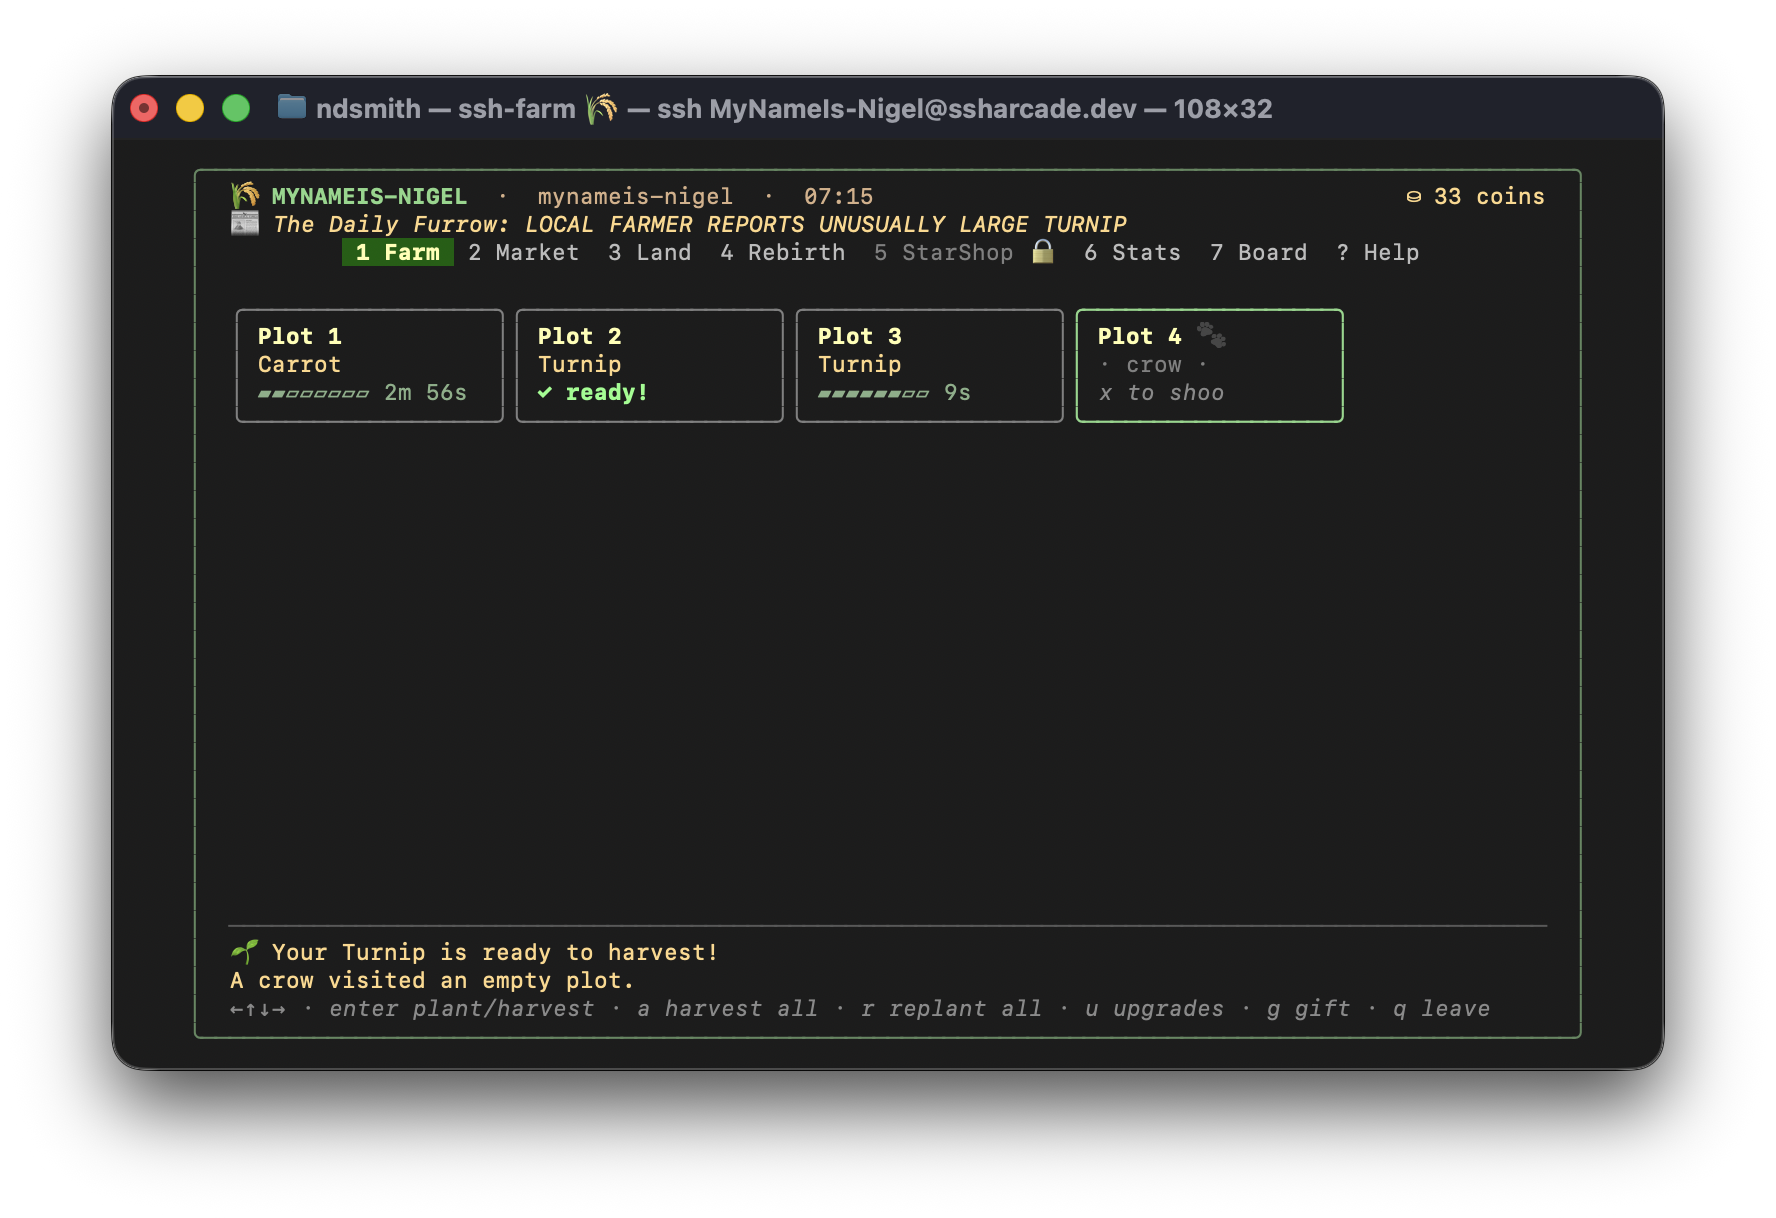
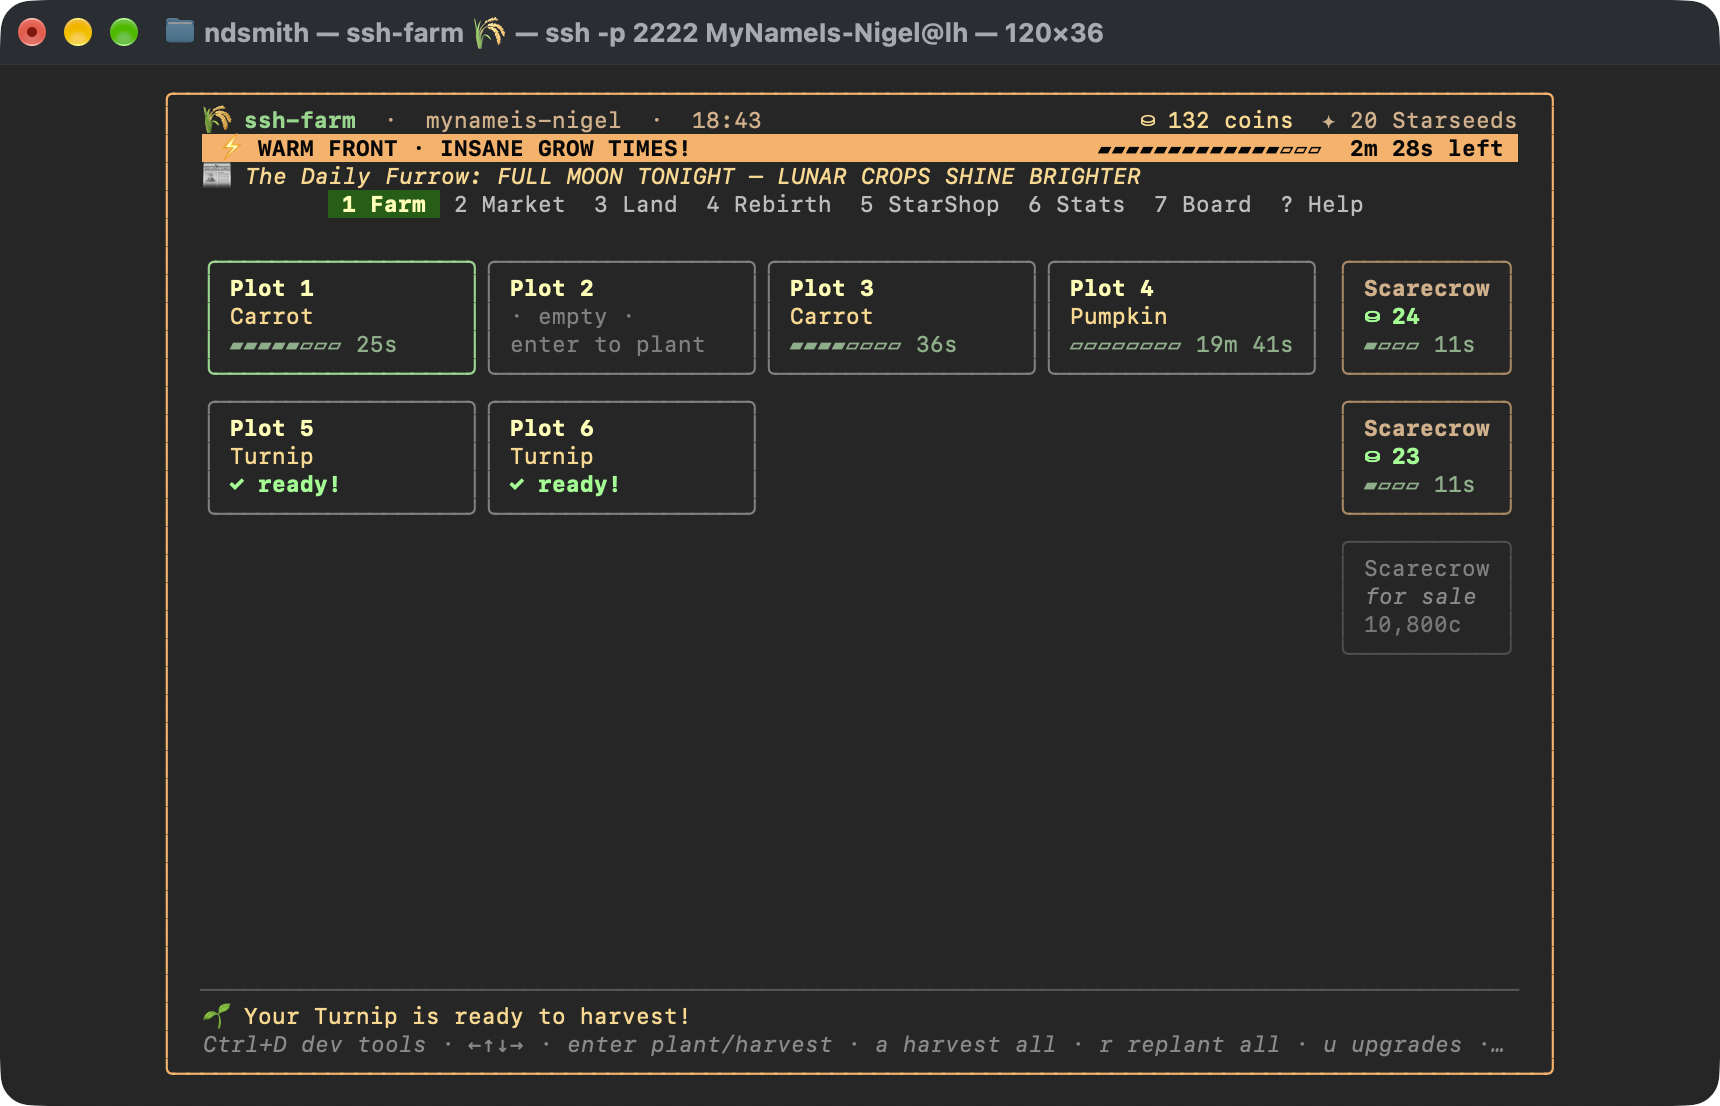
update readme and new photo for ssh-idlefarmer

diff --git a/README.md b/README.md
@@ -1,23 +1,17 @@
 # Nigel Smith
 
-**DevOps & Cloud Infrastructure Engineer** — I build and automate just about anything I can get my hands on.
+**Security & Infrastructure Engineer**
 
 Currently pursuing a B.S. in Cybersecurity at BYU-Idaho (Est. 2027) while working in the field.
 
----
-
-## What I Work On
-
-- **Cloud infrastructure** — AWS (IAM, EC2, RDS, S3, Lambda, VPC, Cognito), GCP, CloudFormation & IaC
-- **Automation** — Python scripts and PowerShell tools
-- **Systems & networking** — Linux servers, Windows Server, Proxmox, Cisco, Cloudflare
-- **Managed IT** — M365 tenant admin, Exchange triage, endpoint management, on-prem network infrastructure
-
----
+> [!TIP]
+> I'm from Monroe, GA; Currently in Rexburg, ID
 
 ## Experience
 
-**Fybercom (Technical Support)** — Configuring Ubiquiti, Cambium, and Tarana radio/fiber equipment; managing customer networks via CRM & troubleshooting through 200+ calls a month
+**Fybercom (Security & Infrastructure Engineer)** — Auditing & security infrastructure, implementing security patches, 
+
+**Fybercom (Technical Support)** — Configured Ubiquiti, Cambium, and Tarana radio/fiber equipment; managed customer networks via CRM & troubleshot through 200+ calls a month
 
 **Roundsphere (DevOps Intern)** — Migrated production apps to IaC with AWS CloudFormation; cut cloud spend by 14% through RDS consolidation; oversaw Google Workspace migrations
 
@@ -33,27 +27,11 @@ Currently pursuing a B.S. in Cybersecurity at BYU-Idaho (Est. 2027) while workin
 | CompTIA A+ | Earned |
 | AWS Cloud Practitioner | Earned |
 | CompTIA Security+ | Earned |
+| TCM PSAA | In-Progress |
+| Cisco CCNA | In-Progress |
+| AWS Solutions Architect | In-Progress |
 
----
-
-## Tech Stack
-
-```
-Cloud:       AWS · GCP · CloudFormation · IaC
-Languages:   Python · PowerShell · Bash
-Infra:       Linux · Windows Server · Proxmox
-Networking:  Cisco · Cloudflare · Wireshark · Nmap
-AI Tooling:  Claude Code · Cursor · n8n · Ollama
-```
-
----
-
-## Currently
-
-- Based in Idaho Falls, ID — opten to relocation after graduation
-- Building toward AWS Solutions Architect
-
----
+## Contact Info
 
 [nigel.nds.smith@gmail.com](mailto:nigel.nds.smith@gmail.com) · [LinkedIn](https://linkedin.com/in/nigeld-smith) · [Portfolio](https://nigel-smith.dev)
 
@@ -63,17 +41,24 @@ AI Tooling:  Claude Code · Cursor · n8n · Ollama
 
 An overview of some of my **personal work** that I can share. These are what I am most proud of. 
 
----
+## SSH-Farm (ssharcade.dev)
 
-## Highlights
+![Screenshot of ssh-farm dev server](assets/ssh-idlefarm.png)
 
-![Screenshot of my TUI game](assets/ssh-idlefarm.png)
+> [!NOTE] 
+> This screenshot may not accurately reflect the current state of the game. This is an active project. 
 
-> SSH Idlefarmer, an agentic engineered terminal user interface (TUI) that you can SSH into right now! Try `ssh ssharcade.dev` (you need a keypair for it to work)
+SSH Idlefarmer, a terminal user interface (TUI) game that you can SSH into right now! Try `ssh ssharcade.dev` (from the menu, hit IDLE FARMER).
 
-![My opengraph of my web portfolio](https://nigel-smith.dev/opengraph.png)
+The arcade runs on a single AWS EC2 t3.micro instance running 4 docker instances for each game. DNS is handled through Cloudflare, the reverse proxy is run on Caddy, each game is written in Go and packed into a Docker image.
 
-> My web portfolio, which will have more information on my projects. Can be reached at https://nigel-smith.dev/ and is deployed as a full-stack web app
+**ssh-farm Release flowchart**
 
- 
+```mermaid
+flowchart TD
+    A[Make a Release] --> B{verify workflow is run}
+    B -->|Failing Job| C[Deploy job never gets run]
+    B -->|Builds Properly| D[Tagged version gets deployed]
+```
 
+> *See more details at [ssh-farm](https://github.com/MyNameIs-Nigel/ssh-farm)*
